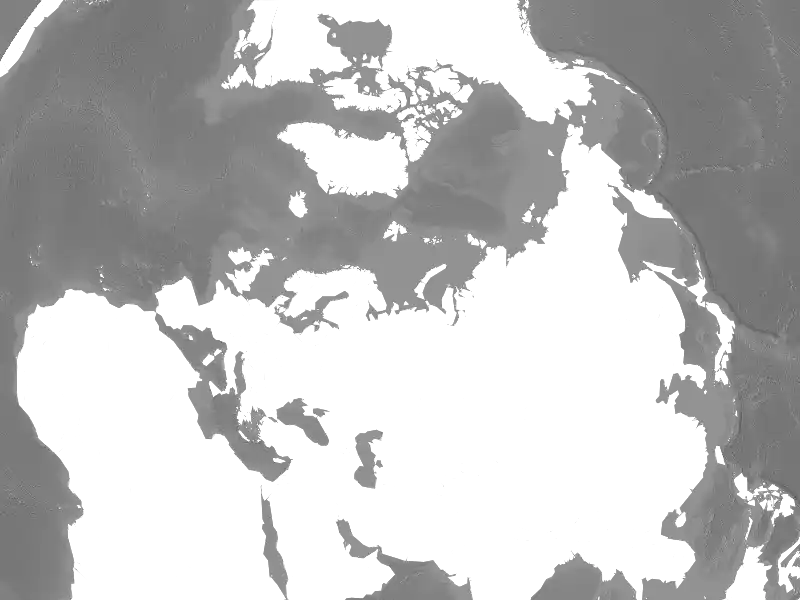
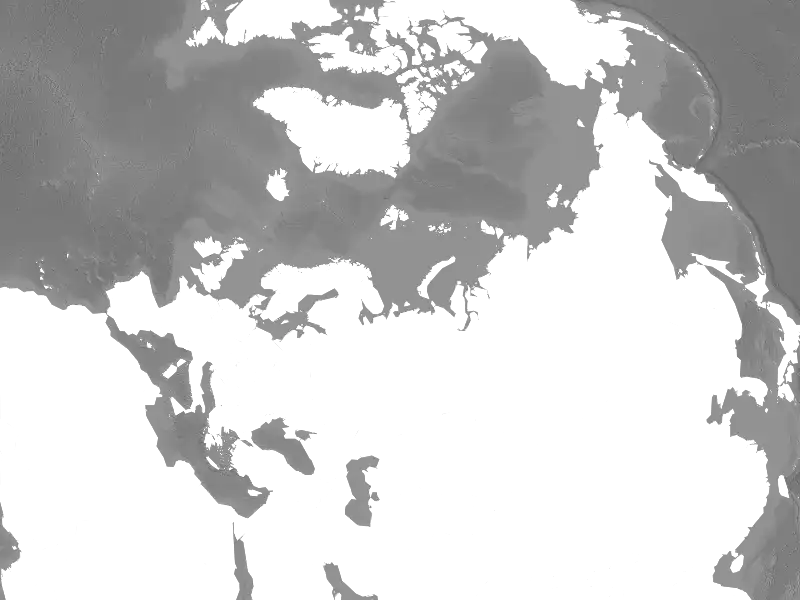
style(maps): Europe 20% closer, centred

diff --git a/wp-content/themes/blankslate-child/includes/template/place-maps.php b/wp-content/themes/blankslate-child/includes/template/place-maps.php
@@ -45,9 +45,11 @@ function wt_continent_frames(): array {
 			'roll'   => -10.0,
 		),
 		// Fitted, so Russia is drawn whole, and out to Spain's Canary Islands,
-		// which the fit (main bodies only) would leave off the west edge.
+		// which the fit (main bodies only) would leave off the west edge; then
+		// 20% closer, into the fit's margin.
 		'europe'   => array(
 			'include' => array( array( -18.2, 27.6 ) ),
+			'crop'    => array( 0.0833, 0.0833, 0.9167, 0.9167 ), // 20% closer, centred.
 		),
 		'oceania'  => array(
 			'center' => array( 166.0, -14.0 ),

diff --git a/docs/maps.md b/docs/maps.md
@@ -127,7 +127,7 @@ It exits with an error when anything but the informational list is non-empty. Ru
 - **Sets.** `wt_place_map_sets()` adds "Continent: Europe" with `view: continent`, a `frame` from `wt_continent_frames()`, and `groups` (record ID → its sub-region's position by slug). The view goes into the key (`wt_maps_set_key( $places, 'continent' )`), so a language whose map draws the same places never gets the continent's drawing.
 - **Build** (`render.mjs`). A set with `groups` wraps each group's shapes in a `<g>`; a filter outlines the union of each group, and the borders inside it are stroked in the fill, so they vanish. No rings: every place under the ring threshold is a dot. A group whose land covers under 15% of the area its places span (the convex hull of their parts' centres) is an island group and gets one halo: a narrow field grown from its islands, joined along a minimum spanning tree so it is one shape (Polynesia), drawn under the land with a thin edge. Measured 2026-11-24: island groups 0–11% (Micronesia, Polynesia, Melanesia, the Caribbean), all others 21% or more. A count of small places failed both ways: at continent scale much of the mainland is under the ring threshold, and Cuba isn't.
 - **Styles.** `.grp`, `.ge-flood`, `.gh-fill`, `.gh-edge` and `.dot` in `wt-maps.styl`. The light styles draw outlines, halo edges and dots in deep blue (`--brd-edge`) with a parchment halo; the dark ones keep the outline and use their primary (parchment) for dots and lavender (`--brd-secondary`) for the halo.
-- **Frames** (`frame` in sets.json, tuned by eye 2026-11-24). `center` fixes the view's centre; without `radius` the territories are fitted round it with equal margins (Oceania); `radius` frames a circle instead, for continents too tall for 4:3 (Africa, the Americas); `roll` turns the view (Asia, −10°, so Japan isn't pushed up the right edge); `crop` keeps part of the fitted view (unused); `include` adds points to the fit (Europe: Spain's Canary Islands, which a fit on main bodies leaves off the west edge). Europe is otherwise fitted, so Russia, continental in size, is drawn whole and the map reaches the Pacific, with even margins left and right.
+- **Frames** (`frame` in sets.json, tuned by eye 2026-11-24). `center` fixes the view's centre; without `radius` the territories are fitted round it with equal margins (Oceania); `radius` frames a circle instead, for continents too tall for 4:3 (Africa, the Americas); `roll` turns the view (Asia, −10°, so Japan isn't pushed up the right edge); `crop` keeps part of the fitted view (Europe: the middle 5/6, 20% closer); `include` adds points to the fit (Europe: Spain's Canary Islands, which a fit on main bodies leaves off the west edge). Europe is otherwise fitted, so Russia, continental in size, is drawn whole and the map reaches the Pacific, with even margins left and right.
 - **Sizes.** Europe's SVG is over the 20 KB budget.
 - **Australia & New Zealand** is a sub-region of Oceania (moved 2026-11-24, a term edit per environment; see plan 3.2).
 
